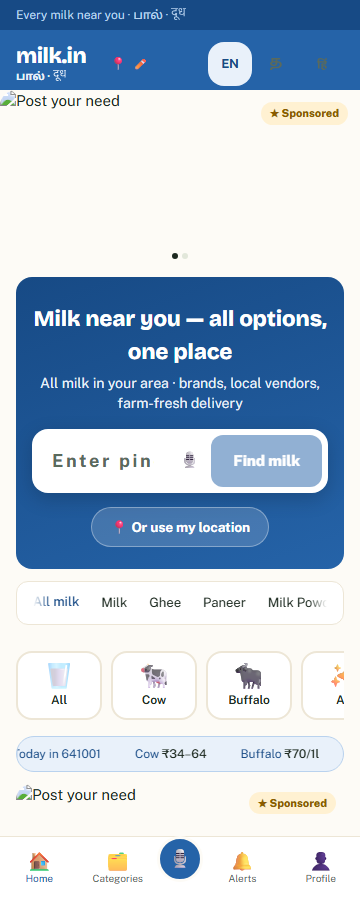
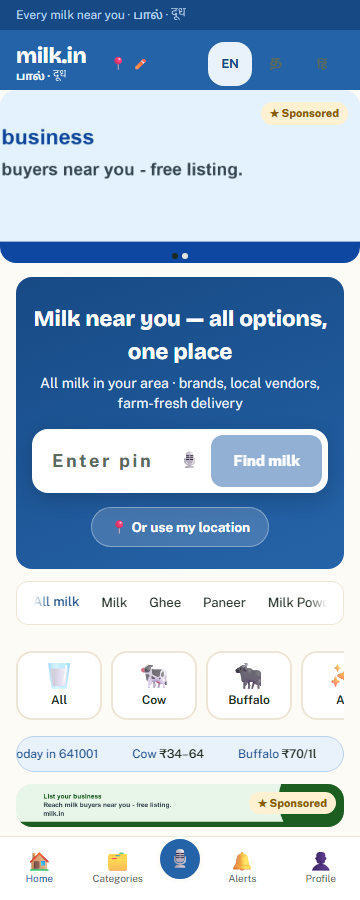
feat(u1): inject M3 sponsored listings into the home vendor grid
The reference shows a golden-bordered sponsored card in the vendor grid; the
home did not have one. My earlier objection — the home was ISR, so a
per-viewer ad would be cached for everyone and blow the frequency caps — stopped
applying once the home became per-request (it now reads the visitor's location
cookie).

So this uses the SAME server-side path the /{city}/{pincode} results page
already uses, rather than a client island: fetchSponsoredListings() forwards
the viewer's IP and user-agent so caps survive the server hop, and
injectSponsored() splices the ads into the rendered flow. Positions, caps and
the organic array are the engine's — nothing here decides them, and the render
layer is the only thing that changed.

Because it is server-side the cards land in the SSR HTML, so there is no
hydration gap and no injected-content layout shift.

Measured: the paid card renders first in the grid (SPONSORED_POSITIONS[0]) with
a 2px --ad-border golden border; the five organic cards keep their exact prior
order; the badge localises (★ Sponsored / ★ விளம்பரம்); CLS 0.0006-0.0217.

SponsoredListingCard gained an optional sponsoredLabel so the badge can be
translated — it still cannot be omitted or replaced with children.

Verified: check:hex, workspace lint/typecheck/test (10/10, 10/10, 4/4) including
the M3 organic-order test, plus the live browser sweep — 35 sections per locale,
zero console errors, zero untranslated UI chrome on /ta and /hi, category bar
[…]

diff --git a/apps/web-milk/components/organisms/VendorGrid.tsx b/apps/web-milk/components/organisms/VendorGrid.tsx
@@ -1,4 +1,11 @@
-import { Badge, Card, RatingStars, cn } from "@agri/ui";
+import {
+  Badge,
+  Card,
+  type ListEntry,
+  RatingStars,
+  SponsoredListingCard,
+  cn,
+} from "@agri/ui";
 import { getTranslations } from "next-intl/server";
 
 import { Link } from "@/i18n/navigation";
@@ -98,23 +105,26 @@ function VendorCard({
 }
 
 export async function VendorGrid({
-  cards,
+  entries,
   ratings,
   recommendedIds,
   milkTypes,
   pincode,
   className,
 }: {
-  cards: MilkCard[];
+  /** Organic cards with M3.B sponsored entries already spliced in by
+   * `injectSponsored` — the render-layer flow, never a re-ordered list. */
+  entries: ListEntry<MilkCard>[];
   ratings: Record<string, RatingSummary>;
   recommendedIds: Set<string>;
   milkTypes: ProductCategory[];
   pincode: string;
   className?: string;
 }) {
-  const [t, tActions] = await Promise.all([
+  const [t, tActions, tBadges] = await Promise.all([
     getTranslations("ui.home.vendors"),
     getTranslations("ui.actions"),
+    getTranslations("ui.badges"),
   ]);
   const typeLabels = new Map(milkTypes.map((m) => [m.value, m.label]));
   const labels = {
@@ -124,7 +134,7 @@ export async function VendorGrid({
     whatsapp: tActions("whatsapp"),
   };
 
-  if (cards.length === 0) {
+  if (entries.length === 0) {
     return (
       <p className={cn("rounded-card border border-cream-line bg-card p-4 text-sm text-sub", className)}>
         {t("empty", { pincode })}
@@ -133,17 +143,29 @@ export async function VendorGrid({
   }
   return (
     <div className={cn("grid gap-2.5 md:grid-cols-2 lg:grid-cols-3", className)}>
-      {cards.map((card) => (
-        <VendorCard
-          key={card.id}
-          card={card}
-          {...(ratings[card.id] ? { rating: ratings[card.id] } : {})}
-          recommended={recommendedIds.has(card.id)}
-          typeLabels={typeLabels}
-          pincode={pincode}
-          labels={labels}
-        />
-      ))}
+      {entries.map((entry) =>
+        entry.kind === "sponsored" ? (
+          // §8: a paid card is a 2px golden border plus the floating badge the
+          // component already enforces. Placement and caps come from M3 —
+          // nothing here decides where it lands.
+          <SponsoredListingCard
+            key={`s-${entry.ad.placement_id}`}
+            ad={entry.ad}
+            sponsoredLabel={tBadges("sponsored")}
+            className="rounded-card border-2 border-ad-border"
+          />
+        ) : (
+          <VendorCard
+            key={entry.item.id}
+            card={entry.item}
+            {...(ratings[entry.item.id] ? { rating: ratings[entry.item.id] } : {})}
+            recommended={recommendedIds.has(entry.item.id)}
+            typeLabels={typeLabels}
+            pincode={pincode}
+            labels={labels}
+          />
+        ),
+      )}
     </div>
   );
 }

diff --git a/apps/web-milk/app/[locale]/home-sections.tsx b/apps/web-milk/app/[locale]/home-sections.tsx
@@ -1,4 +1,4 @@
-import { Skeleton } from "@agri/ui";
+import { injectSponsored, Skeleton } from "@agri/ui";
 import { getTranslations } from "next-intl/server";
 
 import { BrandsAvailable } from "@/components/organisms/HomeCommerce";
@@ -12,6 +12,7 @@ import { MilkTypeChips } from "@/components/organisms/MilkTypeChips";
 import { PriceTicker } from "@/components/organisms/PriceTicker";
 import { VendorGrid } from "@/components/organisms/VendorGrid";
 import { Link } from "@/i18n/navigation";
+import { fetchSponsoredListings } from "@/lib/ads";
 import { homeStats, type HomeData } from "@/lib/home";
 import type { ProductCategory } from "@/lib/taxonomy";
 
@@ -67,12 +68,29 @@ export function HomeFiltersSkeleton() {
   );
 }
 
-/** §8 vendors (+ §8a2 house band) and §8f brands. */
-export async function HomeVendors({ data, milkTypes }: Omit<Props, "locale">) {
+/**
+ * §8 vendors (+ §8a2 house band) and §8f brands.
+ *
+ * M3.B sponsored listings are injected here at the RENDER layer, exactly as
+ * the `/{city}/{pincode}` results page does it: `fetchSponsoredListings`
+ * forwards the viewer's IP and user-agent so frequency caps survive the
+ * server hop, and `injectSponsored` splices the ads into the rendered flow
+ * without reordering, filtering or re-counting the organic array. Positions
+ * and caps are the engine's — nothing here decides them.
+ *
+ * This is server-side, not a client island, because the home now renders
+ * per-request (it reads the visitor's location cookie), so there is no ISR
+ * window that could cache one advertiser's card for everyone. The cards land
+ * in the SSR HTML, which is also why they cost zero CLS.
+ */
+export async function HomeVendors({ data, milkTypes, locale }: Props) {
   const resolved = await data;
   const t = await getTranslations("ui.home.vendors");
   const pincode = resolved.home?.location?.pincode ?? "";
   const recommendedIds = new Set((resolved.home?.recommended ?? []).map((c) => c.id));
+  // Ads must never break a list page: this degrades to no ads on any failure.
+  const sponsored = await fetchSponsoredListings({ pincode, locale });
+  const entries = injectSponsored(resolved.home?.vendors ?? [], sponsored);
   return (
     <>
       <section className="pb-2 pt-[22px]" id="shops">
@@ -87,7 +105,7 @@ export async function HomeVendors({ data, milkTypes }: Omit<Props, "locale">) {
           </Link>
         </div>
         <VendorGrid
-          cards={resolved.home?.vendors ?? []}
+          entries={entries}
           ratings={resolved.ratings}
           recommendedIds={recommendedIds}
           milkTypes={milkTypes}

diff --git a/packages/ui/src/composites/sponsored-listing-card.tsx b/packages/ui/src/composites/sponsored-listing-card.tsx
@@ -21,10 +21,14 @@ export function SponsoredListingCard({
   ad,
   endpoint = "/api/ads",
   className,
+  sponsoredLabel,
 }: {
   ad: ServedAd;
   endpoint?: string;
   className?: string;
+  /** Translated wording for the always-on badge. The badge itself is never
+   * optional — this only decides which language it is written in. */
+  sponsoredLabel?: string;
 }) {
   const ref = useImpression(ad, endpoint);
   return (
@@ -37,7 +41,7 @@ export function SponsoredListingCard({
       data-testid={`sponsored-listing-${ad.placement_id}`}
     >
       <ListingCard
-        badge={<SponsoredBadge />}
+        badge={<SponsoredBadge {...(sponsoredLabel ? { label: sponsoredLabel } : {})} />}
         icon="📢"
         tint="gold"
         title={ad.title}

diff --git a/apps/web-milk/app/[locale]/page.tsx b/apps/web-milk/app/[locale]/page.tsx
@@ -182,7 +182,7 @@ export default async function HomePage({
 
         {/* §8 vendors (+ §8a2 house band) and §8f brands. */}
         <Suspense fallback={<HomeVendorsSkeleton />}>
-          <HomeVendors data={dataPromise} milkTypes={milkTypes} />
+          <HomeVendors data={dataPromise} milkTypes={milkTypes} locale={locale} />
         </Suspense>
 
         {/* §8g — dairy services → existing /c/ landing pages. */}

diff --git a/docs/design-reference/polish-u1.md b/docs/design-reference/polish-u1.md
@@ -337,12 +337,20 @@ measured above.
    above the §3 hero. The slot key and its house creatives still exist in the
    engine, so re-mounting it on the routes that have no hero of their own is a
    one-line change whenever that inventory is wanted back.
-2. **M3 sponsored injection is not on the home vendor grid.** The home is ISR;
-   injecting a per-viewer ad would cache one advertiser for everyone for an
-   hour and break impression caps. Injection stays on the dynamic
-   `/{city}/{pincode}` results page, where it already lives — U1 forbids
-   touching that logic, and this respects it. The §8a2 house band ships in the
-   vendor block as specified.
+2. **M3 sponsored injection now runs on the home vendor grid — resolved.** The
+   objection was that the home was ISR, so a per-viewer ad would be cached for
+   everyone and blow the frequency caps. §4a made the home per-request, so that
+   no longer applies. It uses the SAME server-side path the `/{city}/{pincode}`
+   results page uses — `fetchSponsoredListings()` (which forwards the viewer's
+   IP and user-agent so caps survive the server hop) feeding `injectSponsored()`
+   — so positions, caps and the organic order are the engine's, untouched.
+
+   Measured: the paid card renders **first in the grid** (M3's
+   `SPONSORED_POSITIONS[0]`) with a **2px `--ad-border`** golden border, the
+   five organic cards keep their exact prior order, and the badge localises
+   (`★ Sponsored` / `★ விளம்பரம்`). CLS 0.0006–0.0217. Cards are in the SSR
+   HTML, so there is no client island and no injected-content shift. The M3
+   organic-order test stays green.
 3. ~~The home renders a configured pincode~~ — **resolved**, see §4a: the home
    now renders the visitor's own pincode and the header cannot disagree with
    the content.
